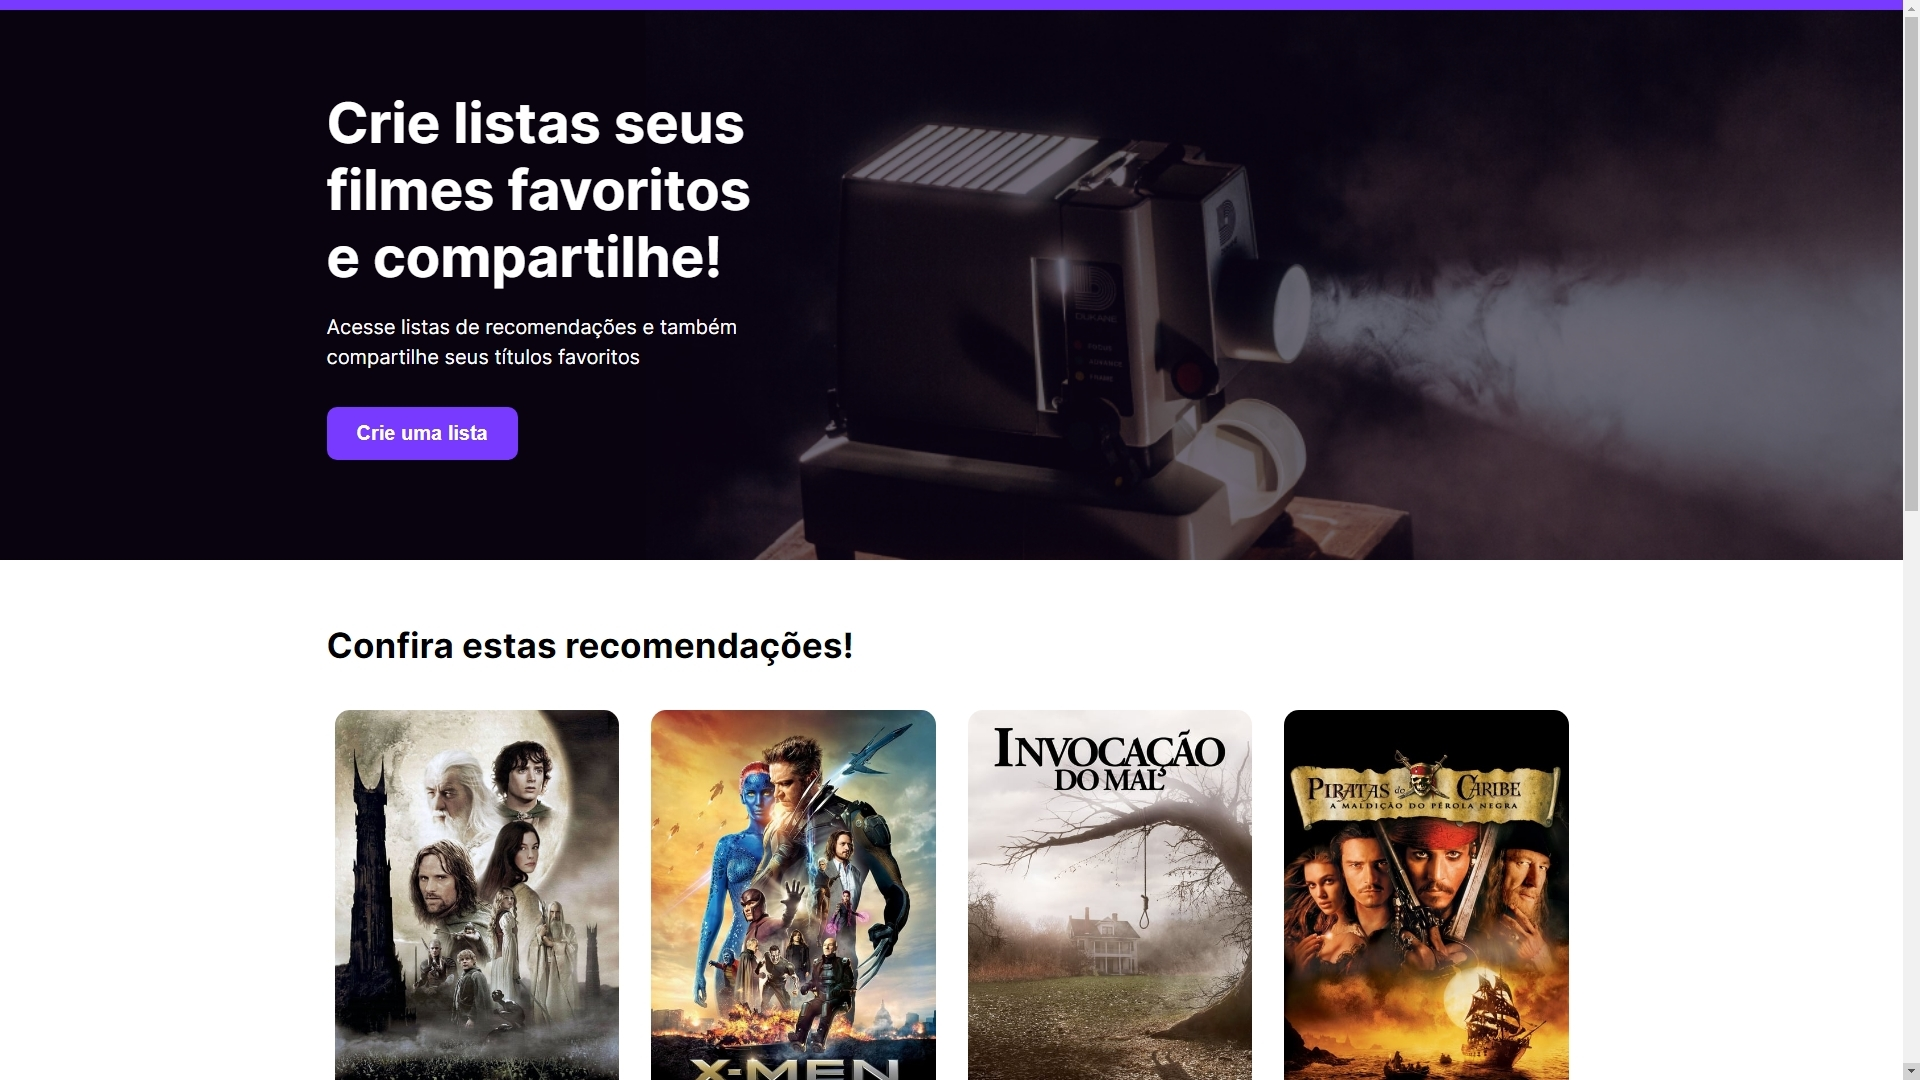
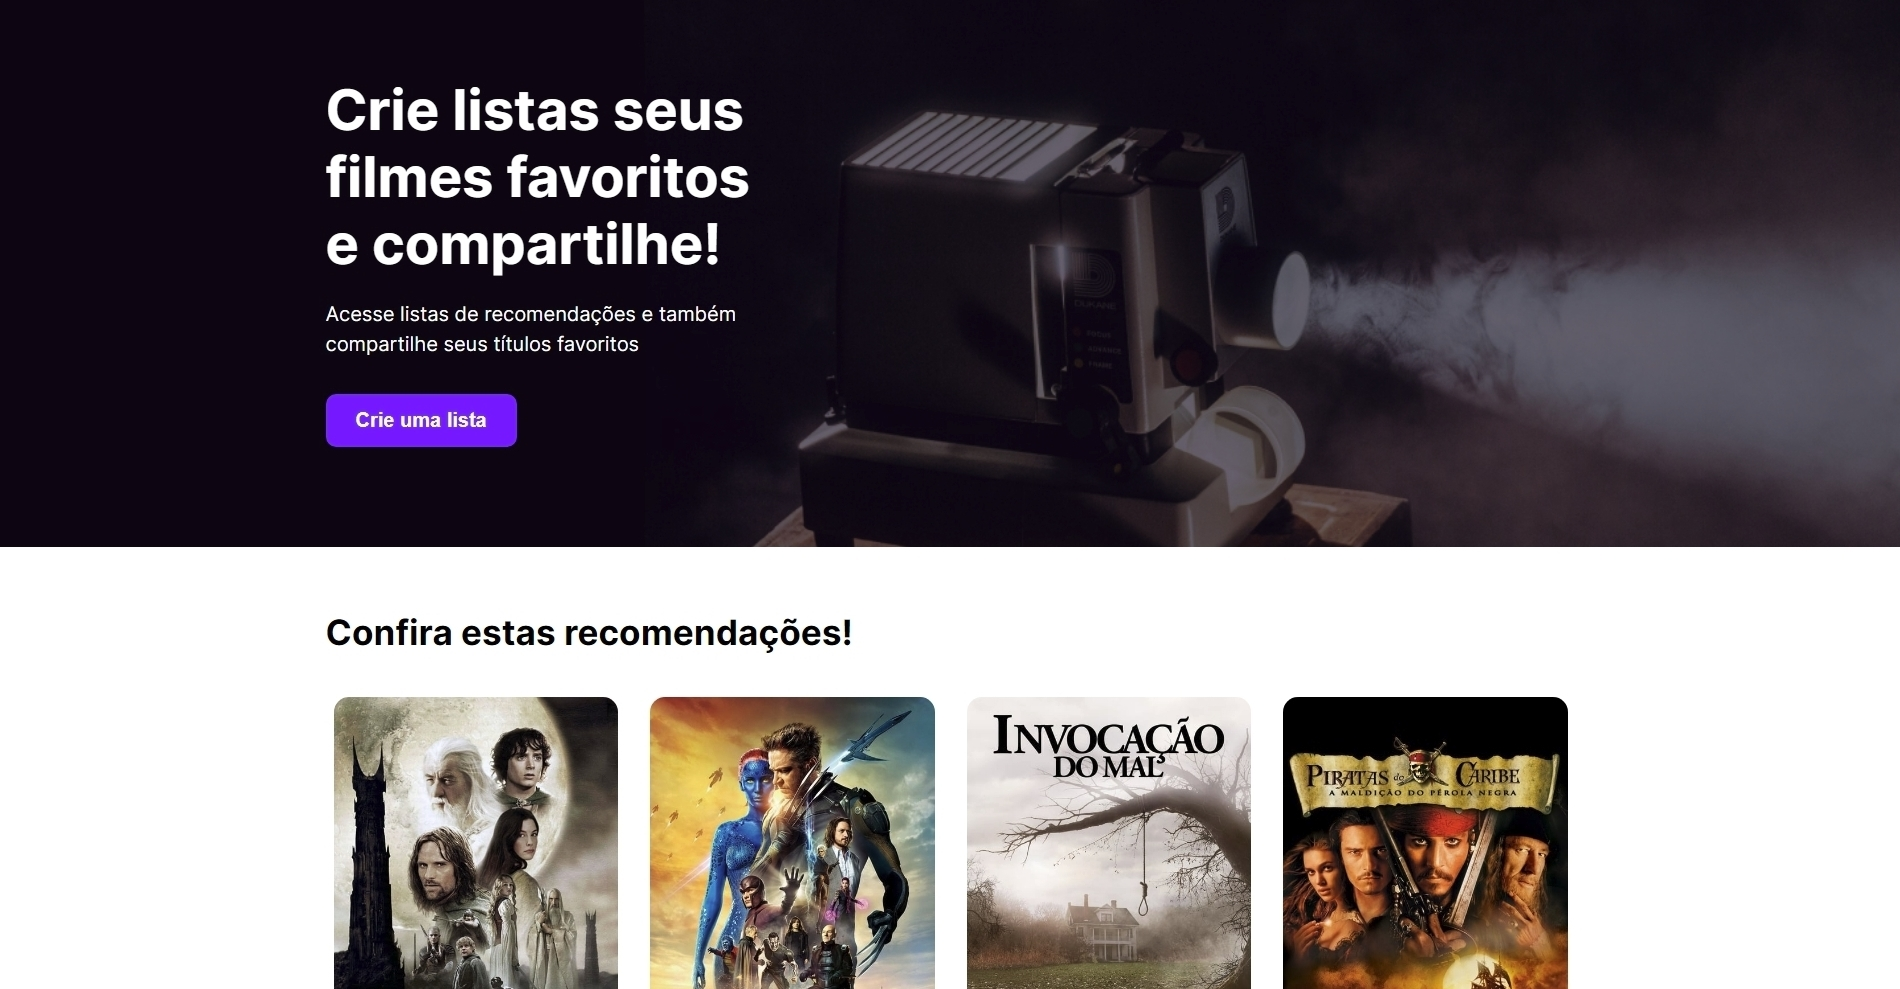
adv 4444

diff --git a/src/components/Projects/index.tsx b/src/components/Projects/index.tsx
@@ -1,93 +1,194 @@
+import { useState } from "react";
 import { useTranslation } from "react-i18next";
 import "../../i18n";
 import { Cards } from "../Cards";
 import ironhacklogo from "../../assets/ironhack.png";
 import goultarenalogo from "../../assets/goultarenalogo.png";
+import { FaTwitter, FaGithub, FaLinkedinIn } from "react-icons/fa";
+import { TbWorld } from "react-icons/Tb";
 
 export function Projects() {
   const { t, i18n } = useTranslation();
+  const [projectOne, setProjectOne] = useState(false);
+  const [projectTwo, setProjectTwo] = useState(false);
+  const [projectThree, setProjectThree] = useState(false);
 
   return (
     <div>
       <div className="flex justify-start items-end gap-4">
         <h2 className="text-5xl">{t("home_project_title")}</h2>
-        <p className="text-lg text-gray-400 font-light underline">Load more.</p>
+        <p className="text-lg text-gray-500 font-light italic">
+          load more projects.
+        </p>
       </div>
-      <div className=" mt-16 flex justify-between w-full">
-        <Cards
-          cardContainer={
-            <div className="h-full w-full bg-cover bg-center rounded-3xl ">
-              <div className="h-full w-full py-2 px-5 rounded-3xl bg-black bg-opacity-90 flex flex-col justify-between cursor-pointer hover:bg-opacity-30 hover:opacity-0 hover:duration-300">
-                <div className="flex justify-start items-center text-lg font-light ">
-                  2022/11 /// Cinelist
-                </div>
-                <div className="flex justify-center">
-                  <img src={ironhacklogo} alt="" className="h-20 w-20" />
-                </div>
-                <div className="flex justify-end text-lg font-light text-opacity-10 ">
-                  // Bootcamp project
-                </div>
-              </div>
-            </div>
-          }
-        />
-        <Cards
-          cardContainer={
-            <div className="h-full w-full bg-cover bg-left-top rounded-3xl ">
-              <div className="h-full w-full py-2 px-5 rounded-3xl bg-black bg-opacity-80 flex flex-col justify-between cursor-pointer hover:bg-opacity-30 hover:opacity-0 hover:duration-300">
-                <div className="flex justify-start items-center text-lg font-light">
-                  2022/12 /// Goultarena
-                </div>
-                <div className="flex justify-center">
-                  <img src={goultarenalogo} alt="" className="h-20 w-20 ml-2" />
-                </div>
-                <div className="flex justify-end text-lg font-light text-opacity-10">
-                  // Dofus fansite
-                </div>
-              </div>
-            </div>
-          }
-        />
-        <Cards
-          cardContainer={
-            <div className="h-full w-full bg-cover bg-left-top rounded-3xl ">
-              <div className="h-full w-full py-2 px-5 rounded-3xl bg-black bg-opacity-80 flex flex-col justify-between cursor-pointer hover:bg-opacity-30 hover:opacity-0 hover:duration-300">
-                <div className="flex justify-start items-center text-lg font-light ">
-                  2023/02 /// Adpwebdev
-                </div>
-                <div className="flex justify-center">
-                  <div className="flex justify-center items-center text-4xl pb-2 rounded-full bg-gradient-to-bl from-[#05010E] to-[#160523] h-20 w-24 shadow-[0_4px_4px_-0px_rgba(0,0,0,0.25)]">
-                    <span className="underline">a</span>
-                    <p className="font-bold">dp</p>
+      <div className="flex justify-between w-full">
+        <div className="mt-16 hover:mt-12">
+          <Cards
+            cardContainer={
+              <div
+                className="h-full w-full rounded-3xl"
+                onClick={() => {
+                  setProjectOne(!projectOne);
+                  setProjectTwo(false);
+                  setProjectThree(false);
+                }}
+              >
+                <div className="h-full w-full py-2 px-5 rounded-3xl flex flex-col justify-between cursor-pointer text-gray-400 hover:text-gray-100 hover:duration-300">
+                  <div className="flex justify-start items-center text-lg font-light ">
+                    2022/11 /// Cinelist
+                  </div>
+                  <div className="flex justify-center">
+                    <img src={ironhacklogo} alt="" className="h-20 w-20" />
+                  </div>
+                  <div className="flex justify-end text-lg font-light text-opacity-10 ">
+                    // Bootcamp project
                   </div>
                 </div>
-                <div className="flex justify-end text-lg font-light text-opacity-10 ">
-                  // Personal website
-                </div>
               </div>
-            </div>
-          }
-        />
-        <Cards
-          cardContainer={
-            <div className="h-full w-full bg-cover bg-left-top rounded-3xl ">
-              <div className="h-full w-full py-2 px-5 rounded-3xl bg-black bg-opacity-80 flex flex-col justify-between cursor-pointer hover:bg-opacity-30 hover:opacity-0 hover:duration-300">
-                <div className="flex justify-start items-center text-lg font-light ">
-                  2023/?? /// ??????
-                </div>
-                <div className="flex justify-center">
-                  <div className="flex justify-center items-center text-4xl pb-2 rounded-full h-20 w-24">
-                   
-                    <p className="font-bold">?</p>
+            }
+          />
+        </div>
+        <div className="mt-16 hover:mt-12">
+          <Cards
+            cardContainer={
+              <div
+                className="h-full w-full rounded-3xl"
+                onClick={() => {
+                  setProjectOne(false);
+                  setProjectTwo(!projectTwo);
+                  setProjectThree(false);
+                }}
+              >
+                <div className="h-full w-full py-2 px-5 rounded-3xl flex flex-col justify-between cursor-pointer text-gray-400 hover:text-gray-100 hover:duration-300">
+                  <div className="flex justify-start items-center text-lg font-light">
+                    2022/12 /// Goultarena
+                  </div>
+                  <div className="flex justify-center">
+                    <img
+                      src={goultarenalogo}
+                      alt=""
+                      className="h-20 w-20 ml-2"
+                    />
+                  </div>
+                  <div className="flex justify-end text-lg font-light text-opacity-10">
+                    // Dofus fansite
                   </div>
                 </div>
-                <div className="flex justify-end text-lg font-light text-opacity-10 ">
-                  // Coming soon
+              </div>
+            }
+          />
+        </div>
+        <div className="mt-16 hover:mt-12">
+          <Cards
+            cardContainer={
+              <div
+                className="h-full w-full rounded-3xl "
+                onClick={() => {
+                  setProjectOne(false);
+                  setProjectTwo(false);
+                  setProjectThree(!projectThree);
+                }}
+              >
+                <div className="h-full w-full py-2 px-5 rounded-3xl flex flex-col justify-between cursor-pointer text-gray-400 hover:text-gray-100 hover:duration-300">
+                  <div className="flex justify-start items-center text-lg font-light ">
+                    2023/02 /// Adpwebdev
+                  </div>
+                  <div className="flex justify-center">
+                    <div className="flex justify-center items-center text-3xl pb-2 bg-gray-800 rounded-3xl h-16 w-20 text-white">
+                      <span className="underline">a</span>
+                      <p className="font-bold">dp</p>
+                    </div>
+                  </div>
+                  <div className="flex justify-end text-lg font-light text-opacity-10 ">
+                    // Personal website
+                  </div>
                 </div>
               </div>
+            }
+          />
+        </div>
+        <div className="mt-16">
+          <Cards
+            cardContainer={
+              <div className="h-full w-full rounded-3xl ">
+                <div className="h-full w-full py-2 px-5 rounded-3xl flex flex-col justify-between text-gray-400">
+                  <div className="flex justify-start items-center text-lg font-light ">
+                    2023/?? /// ??????
+                  </div>
+                  <div className="flex justify-center">
+                    <div className="flex justify-center items-center text-4xl pb-2 rounded-full h-20 w-24">
+                      <p className="font-bold">?</p>
+                    </div>
+                  </div>
+                  <div className="flex justify-end text-lg font-light text-opacity-10 ">
+                    // Coming soon
+                  </div>
+                </div>
+              </div>
+            }
+          />
+        </div>
+      </div>
+      <div>
+        {projectOne && (
+          <div className=" w-full h-full mt-10 flex justify-start gap-8">
+            <div className="w-96 h-40 rounded-tr-3xl rounded-bl-3xl bg-gradient-to-b from-[#575757b9] to-[#1b1b1bf3] p-0.5 drop-shadow-lg">
+              <div className="w-full h-full rounded-tr-3xl rounded-bl-3xl bg-cover bg-[url('/src/assets/cinelist.jpg')]">
+                <div className="w-full h-full bg-black rounded-tr-3xl rounded-bl-3xl bg-opacity-40"></div>
+              </div>
             </div>
-          }
-        />
+            <div className="py-3">
+              <div className="flex justify-start items-center gap-4 ">
+                <h2 className="text-3xl mr-6">Cinelist</h2>
+                <span className="text-3xl opacity-50 self-end">//</span>
+                <div className="h-full flex gap-2 justify-start items-center text-xl">
+                  <FaGithub className="opacity-50 hover:opacity-100 cursor-pointer" />
+                  <TbWorld className="opacity-50 hover:opacity-100 cursor-pointer" />
+                  <FaTwitter className="opacity-50 hover:opacity-100 cursor-pointer" />
+                </div>
+              </div>
+              <p className="mt-4">description of cinelist, blablabla</p>
+            </div>
+          </div>
+        )}
+        {projectTwo && (
+          <div className=" w-full h-full mt-10 flex justify-start gap-8">
+            <div className="w-96 h-40 rounded-3xl bg-gradient-to-b from-[#f2f2f25d] to-[#40404073] p-0.5 drop-shadow-lg">
+              <div className="w-full h-full p-3 rounded-3xl bg-cover bg-[url('/src/assets/goultarena.png')]" />
+            </div>
+            <div className="py-3">
+              <div className="flex justify-start items-center gap-4 ">
+                <h2 className="text-3xl mr-6">Goultarena</h2>
+                <span className="text-3xl opacity-50 self-end">//</span>
+                <div className="h-full flex gap-2 justify-start items-center text-xl">
+                  <FaGithub className="opacity-50 hover:opacity-100 cursor-pointer" />
+                  <TbWorld className="opacity-50 hover:opacity-100 cursor-pointer" />
+                  <FaTwitter className="opacity-50 hover:opacity-100 cursor-pointer" />
+                </div>
+              </div>
+              <p className="mt-4">description of goultarena, blablabla</p>
+            </div>
+          </div>
+        )}
+        {projectThree && (
+          <div className=" w-full h-full mt-10 flex justify-start gap-8">
+            <div className="w-96 h-40 rounded-3xl bg-gradient-to-b from-[#f2f2f25d] to-[#40404073] p-0.5 drop-shadow-lg">
+              <div className="w-full h-full p-3 rounded-3xl bg-cover bg-[url('/src/assets/adpwebdev.png')]" />
+            </div>
+            <div className="py-3">
+              <div className="flex justify-start items-center gap-4 ">
+                <h2 className="text-3xl mr-6">Adpwebdev</h2>
+                <span className="text-3xl opacity-50 self-end">//</span>
+                <div className="h-full flex gap-2 justify-start items-center text-xl">
+                  <FaGithub className="opacity-50 hover:opacity-100 cursor-pointer" />
+                  <TbWorld className="opacity-50 hover:opacity-100 cursor-pointer" />
+                  <FaTwitter className="opacity-50 hover:opacity-100 cursor-pointer" />
+                </div>
+              </div>
+              <p className="mt-4">description of adpwebdev, blablabla</p>
+            </div>
+          </div>
+        )}
       </div>
     </div>
   );

diff --git a/src/components/About/index.tsx b/src/components/About/index.tsx
@@ -13,22 +13,23 @@ export function About() {
       <h2 className="text-5xl">{t("home_about_title")}</h2>
       <div>
         <p className="text-xl font-light mt-10">
-          Je m'appelle André, j'ai 25 ans et je suis récemment devenu en
-          décembre. 2022 développeur fullstack. Je suis née au Portugal, mais
-          j'ai vécu presque toute ma vie en France. Après de nombreuses
-          expériences dans différents domaines liés à l'informatique, j'ai
-          décidé de me former via Ironhack São Paulo. Après m'être auto formée
-          après le Bootcamp Ironhack, j'ai également fait des missions amicales
-          et des projects personnels. Curieux et touche-à-tout lié au domaine
-          WEB en Javascript/Typescript, je suis très enthousiaste de démarrer
-          une nouvelle expérience. Vous pouvez me suivre, ou bien accéder à plus
+          J'ai 25 ans, je suis récemment devenu en décembre 2022 développeur web
+          fullstack, je suis née au Portugal, mais j'ai vécu presque toute ma
+          vie en France. Après de nombreuses expériences dans différents
+          domaines liés à l'informatique, j'ai décidé de me former au
+          developpement web via Ironhack São Paulo. Après le Bootcamp Ironhack,
+          j'ai fais des missions amicales pour des amis et des projects
+          personnels à fin de m'auto-former et être prêt pour le marché du
+          travail. Curieux et touche-à-tout lié au domaine WEB autour du
+          Javascript/Typescript, je suis très enthousiaste de démarrer une
+          nouvelle expérience. Vous pouvez me suivre, ou bien accéder à plus
           d'informations ci-dessous.
         </p>
       </div>
-      <div className=" mt-16 flex w-full gap-10">
+      <div className=" mt-16 flex w-full gap-10 ">
         <div className="flex flex-col w-[50%] gap-10">
           <div className="flex gap-10">
-            <div className=" h-56 w-64 bg-gradient-to-b from-[#bdbdbd71] to-[#3d3d3d4f] rounded-3xl p-0.5 drop-shadow-lg">
+            <div className=" h-56 w-64 bg-gradient-to-b from-[#272149fb] to-[#2d2d2e] rounded-3xl p-0.5 drop-shadow-lg">
               <div className="w-full h-full bg-gradient-to-b from-blue-900 to-gray-900 rounded-3xl">
                 <div className="px-8 py-6 ">
                   <div>
@@ -51,7 +52,7 @@ export function About() {
                 </div>
               </div>
             </div>
-            <div className=" h-56 w-64 bg-gradient-to-b from-[#bdbdbd71] to-[#3d3d3d4f] rounded-3xl p-0.5 drop-shadow-lg">
+            <div className=" h-56 w-64 bg-gradient-to-b from-[#bdbdbd42] to-[#3030304f] rounded-3xl p-0.5 drop-shadow-lg">
               <div className="w-full h-full bg-gradient-to-b from-blue-900 to-gray-900 rounded-3xl">
                 <div className="px-8 py-6 ">
                   <div>
@@ -114,7 +115,7 @@ export function About() {
               </div>
             </div>
           </div>
-          <div className=" h-56 w-full bg-gradient-to-b from-[#bdbdbd71] to-[#3d3d3d4f] rounded-3xl p-0.5 drop-shadow-lg">
+          <div className=" h-56 w-full bg-gradient-to-b from-[#292929a4] to-[#313131d2] rounded-3xl p-0.5 drop-shadow-lg">
             <div className="w-full h-full bg-gradient-to-b from-gray-900 to-gray-800 rounded-3xl">
               <div className="px-8 py-6 flex justify-between items-center pr-16">
                 <div>

diff --git a/src/layouts/Footer/index.tsx b/src/layouts/Footer/index.tsx
@@ -1,9 +1,19 @@
+import { FaTwitter, FaGithub, FaLinkedinIn } from "react-icons/fa";
+
 export function Footer() {
   return (
-    <footer className="mt-8">
-      <div className="h-0.5 w-full bg-violet-700 bg-opacity-10 rounded-lg" />
+    <footer className="mt-16">
+      <div className="h-0.5 w-full bg-gray-400 bg-opacity-10 rounded-full" />
       <div className="flex justify-center items-center py-6">
-        <p className="opacity-10">André DA COSTA PINTO.</p>
+        <div className="flex justify-start items-center gap-4 text-lg font-light opacity-30">
+          <FaTwitter />
+          <FaGithub />
+          <FaLinkedinIn />
+          <span>///</span>
+          <p>André DA COSTA PINTO.</p>
+          <span>///</span>
+          <p>adcp314@gmail.com</p>
+        </div>
       </div>
     </footer>
   );

diff --git a/src/components/Cards/index.tsx b/src/components/Cards/index.tsx
@@ -1,8 +1,8 @@
 export function Cards(props: any) {
   const { cardContainer } = props;
   return (
-    <div className="h-56 w-64 bg-gradient-to-b from-[#F2F2F2] to-[#404040] rounded-3xl p-0.5 shadow-[0_4px_4px_-0px_rgba(0,0,0,0.25)]">
-      <div className="h-full w-full bg-[#110415] rounded-3xl">
+    <div className="h-56 w-64 bg-gradient-to-b from-[#575757b9] to-[#1b1b1bf3] rounded-tr-3xl rounded-bl-3xl p-0.5 drop-shadow-lg">
+      <div className="h-full w-full bg-gradient-to-bl from-[#24201e] to-[#190b22] rounded-tr-3xl rounded-bl-3xl hover:duration-300">
         {cardContainer}
       </div>
     </div>

diff --git a/src/layouts/Navbar/index.tsx b/src/layouts/Navbar/index.tsx
@@ -38,7 +38,10 @@ export function Navbar() {
     <div className="w-full font-Cairo text-white">
       <div className="pt-12 flex gap-4 justify-between items-center">
         <div className="flex gap-6 justify-start items-center">
-          <div className="flex justify-center items-center text-4xl pb-2">
+          <div
+            className="flex justify-center items-center text-4xl pb-2 cursor-pointer"
+            onClick={() => window.location.reload()}
+          >
             <span className="underline">a</span>
             <p className="font-bold">dp</p>
           </div>

diff --git a/src/pages/BrowserView/Home/index.tsx b/src/pages/BrowserView/Home/index.tsx
@@ -8,7 +8,7 @@ import { About } from "../../../components/About";
 export function HomeBView() {
   const { t, i18n } = useTranslation();
   return (
-    <div className="w-full h-full font-Cairo text-white flex flex-col justify-start items-center bg-gradient-to-bl from-[#05010E] via-[#160523] to-[#1D041F] animate-gradient ">
+    <div className="w-full h-full font-Cairo text-white flex flex-col justify-start items-center bg-gradient-to-bl from-[#161413] via-[#160616] to-[#160822] animate-gradient ">
       <div className=" w-[1100px]">
         <Navbar />
 
